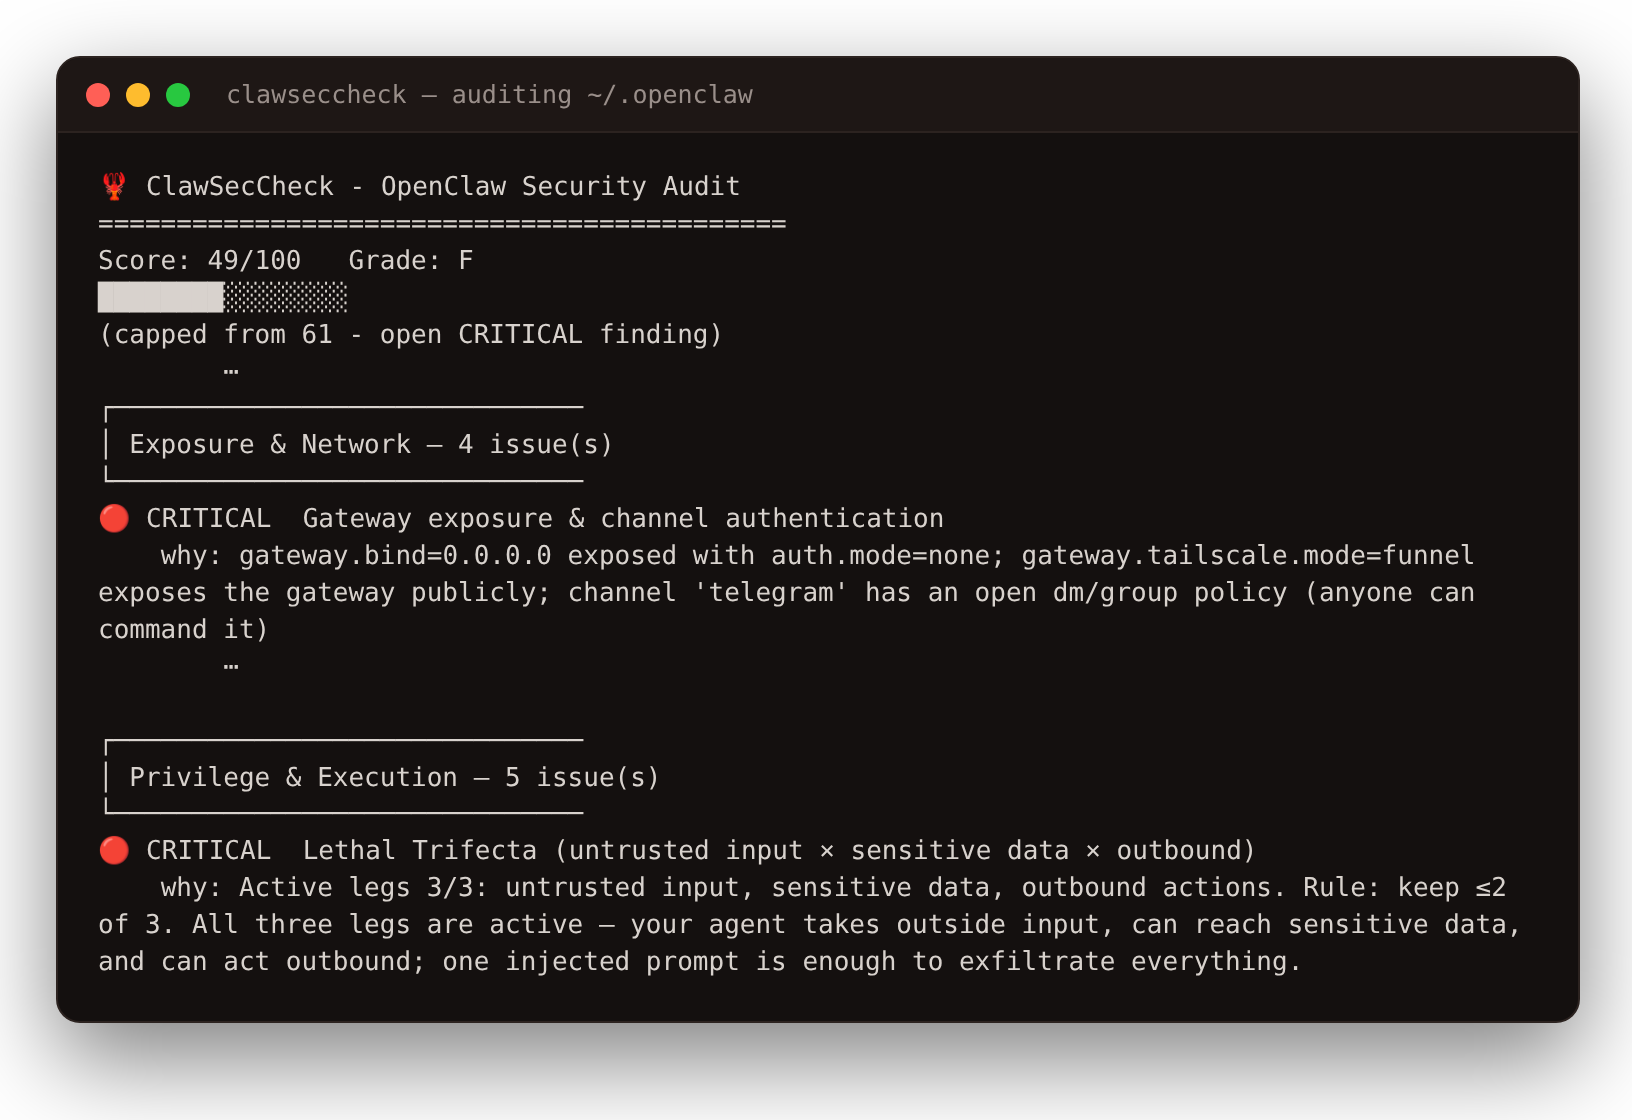
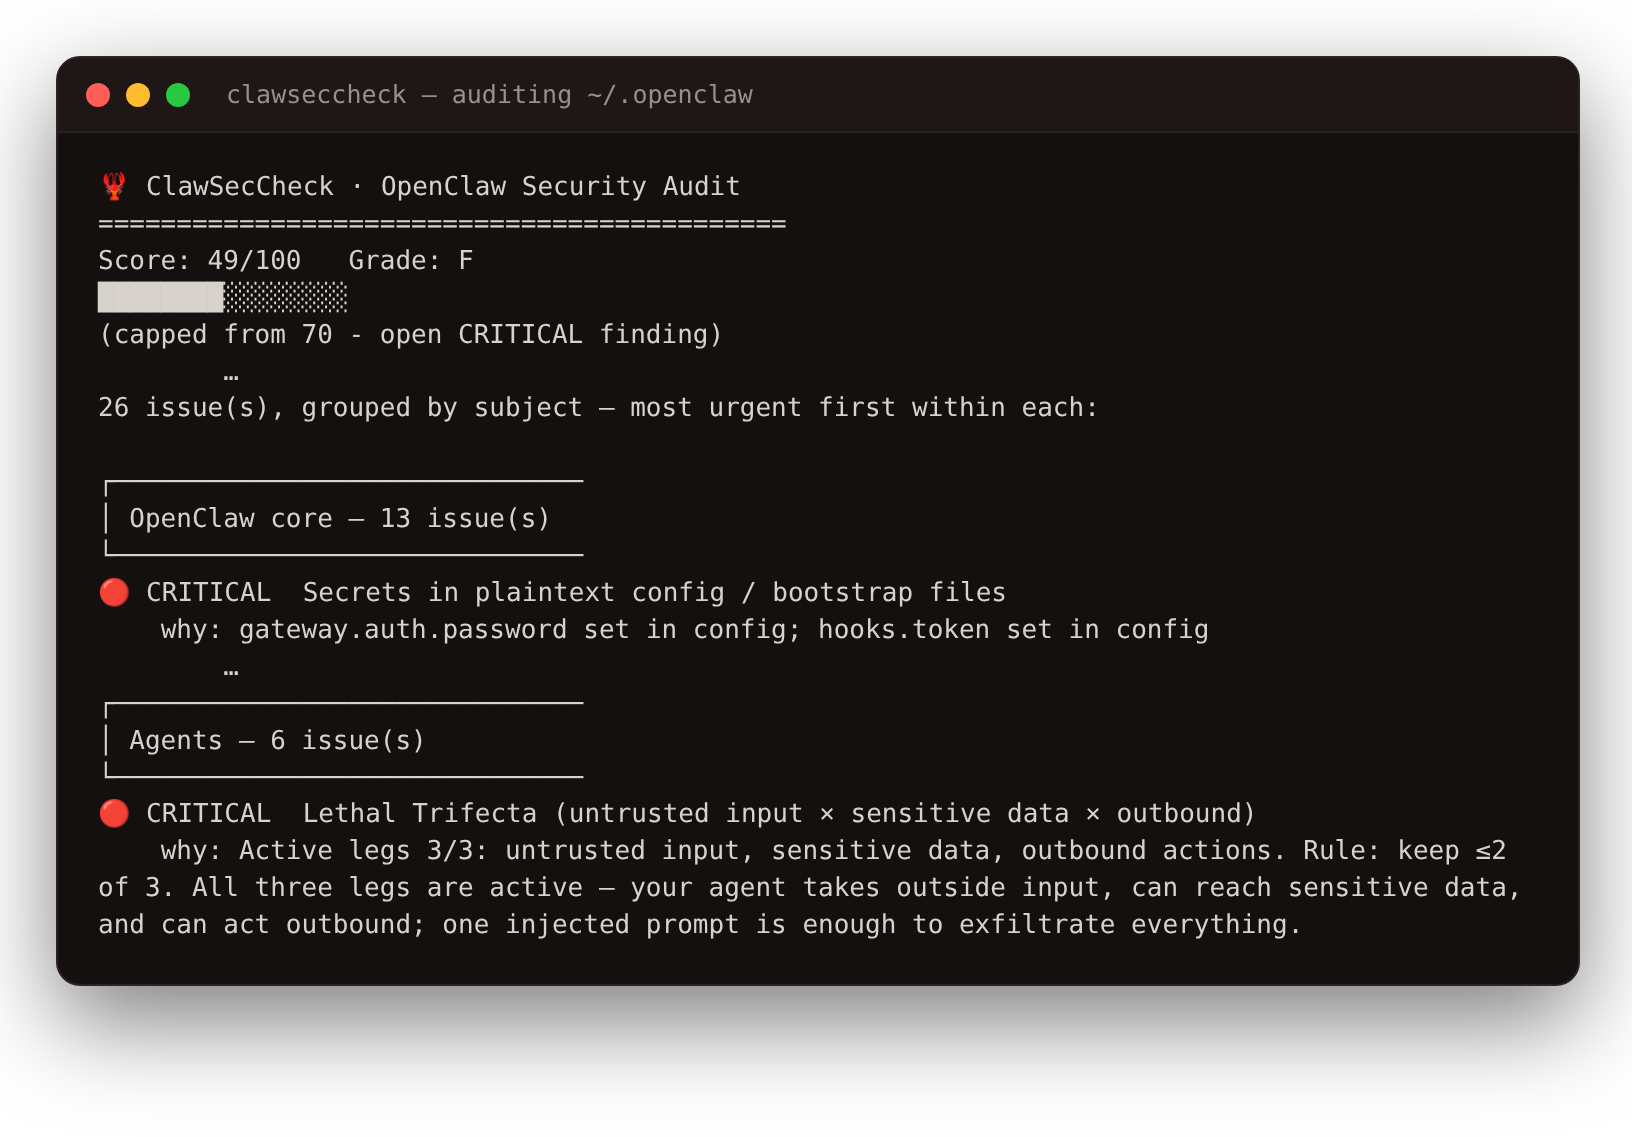
docs: regenerate the README terminal screenshots for the by-subject layout
Both were captured 2026-07-16 and still showed the retired family grouping
("Exposure & Network", "Privilege & Execution") and a stale cap line
("capped from 61", now 70). report.png's alt text had already been rewritten
to describe the by-subject layout, so the image had been contradicting its
own description.

Recaptured from a real run: report.png now shows the score header, the
counts, the Inventory-by-subject block (including a subject that honestly
reads "not assessed") and findings grouped by subject; report-compact.png
shows the same two CRITICAL findings its alt text promises, under the
subject headers the tool actually renders.

The committed .ansi slices are the exact source of each image, so they can
be rebuilt. Omitted lines are marked with the same "…" the slices already
used — a value that would be misleading in a screenshot (the fixture config
path) is elided rather than rewritten, so an image can only ever show output
the tool really produced.

Adds docs/assets/src/README.md documenting the three steps, and restating
that the rasterizer is not and must not become a project dependency.

diff --git a/docs/assets/src/README.md b/docs/assets/src/README.md
@@ -1,0 +1,51 @@
+# Asset sources
+
+How the README's terminal screenshots are made. Recorded because the pipeline had to be
+reverse-engineered once already.
+
+## Terminal screenshots (`report.png`, `report-compact.png`)
+
+Each PNG is a real capture, never hand-drawn. Three steps:
+
+1. **Capture** a colour run of the audit and cut a slice from it:
+
+   ```bash
+   FORCE_COLOR=1 python3 -m clawseccheck.cli --home fixtures/home_vuln --no-history > run.ansi
+   ```
+
+   The committed slices — `report_slice.ansi` and `report_compact_slice.ansi` — are excerpts
+   of exactly that output, stitched from non-contiguous line ranges. Omitted material is
+   marked with a `…` line. **Nothing in a slice is edited or retyped**: a value that would be
+   wrong in a screenshot (a fixture path, say) is *elided*, not rewritten, so the image can
+   only ever show output the tool really produced.
+
+2. **Render** the slice to a styled terminal frame:
+
+   ```bash
+   python3 docs/assets/src/ansi2html.py report_slice.ansi report.html \
+     "clawseccheck — auditing ~/.openclaw" 760
+   ```
+
+   `760` is the frame width both shipped PNGs use — keep it, or the two images stop matching
+   each other in the README.
+
+3. **Rasterize** `report.html` at 2× and crop to the alpha bounding box (any headless browser
+   plus any image library will do; Pillow's `Image.getbbox()` does the crop).
+
+   **The rasterizer is not a project dependency, and must not become one.** ClawSecCheck has
+   zero runtime *and* zero dev-tooling dependencies; this last step uses whatever happens to
+   be on the maintainer's machine, and the PNG is committed as a binary artifact. Adding a
+   headless browser to the repo's tooling is a separate, explicit decision — see
+   `scripts/gen_banner.py`, which draws the same line for the banner.
+
+## Banner (`banner.html` → `banner.png`, `banner-readme.png`)
+
+`banner.html` is **generated** — do not hand-edit it:
+
+```bash
+python3 scripts/gen_banner.py --write
+```
+
+It derives the accent colours from `clawseccheck/brand.py`, the single source of brand truth,
+so the banner cannot drift from the palette the tool itself renders. Rasterizing it to PNG is
+the same manual step as above.
